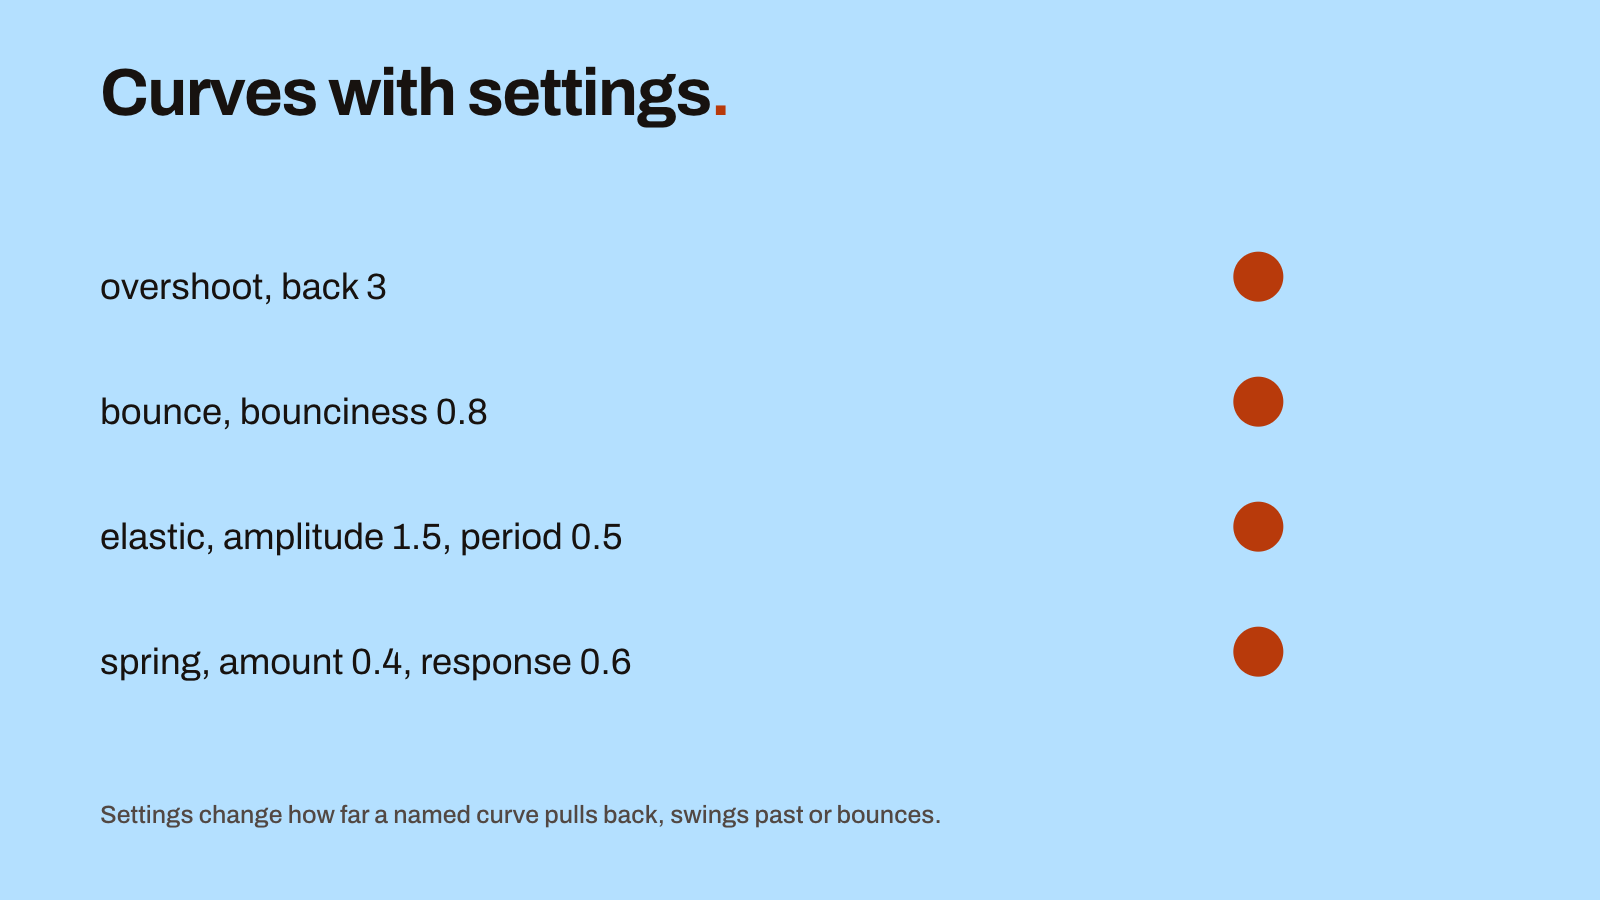
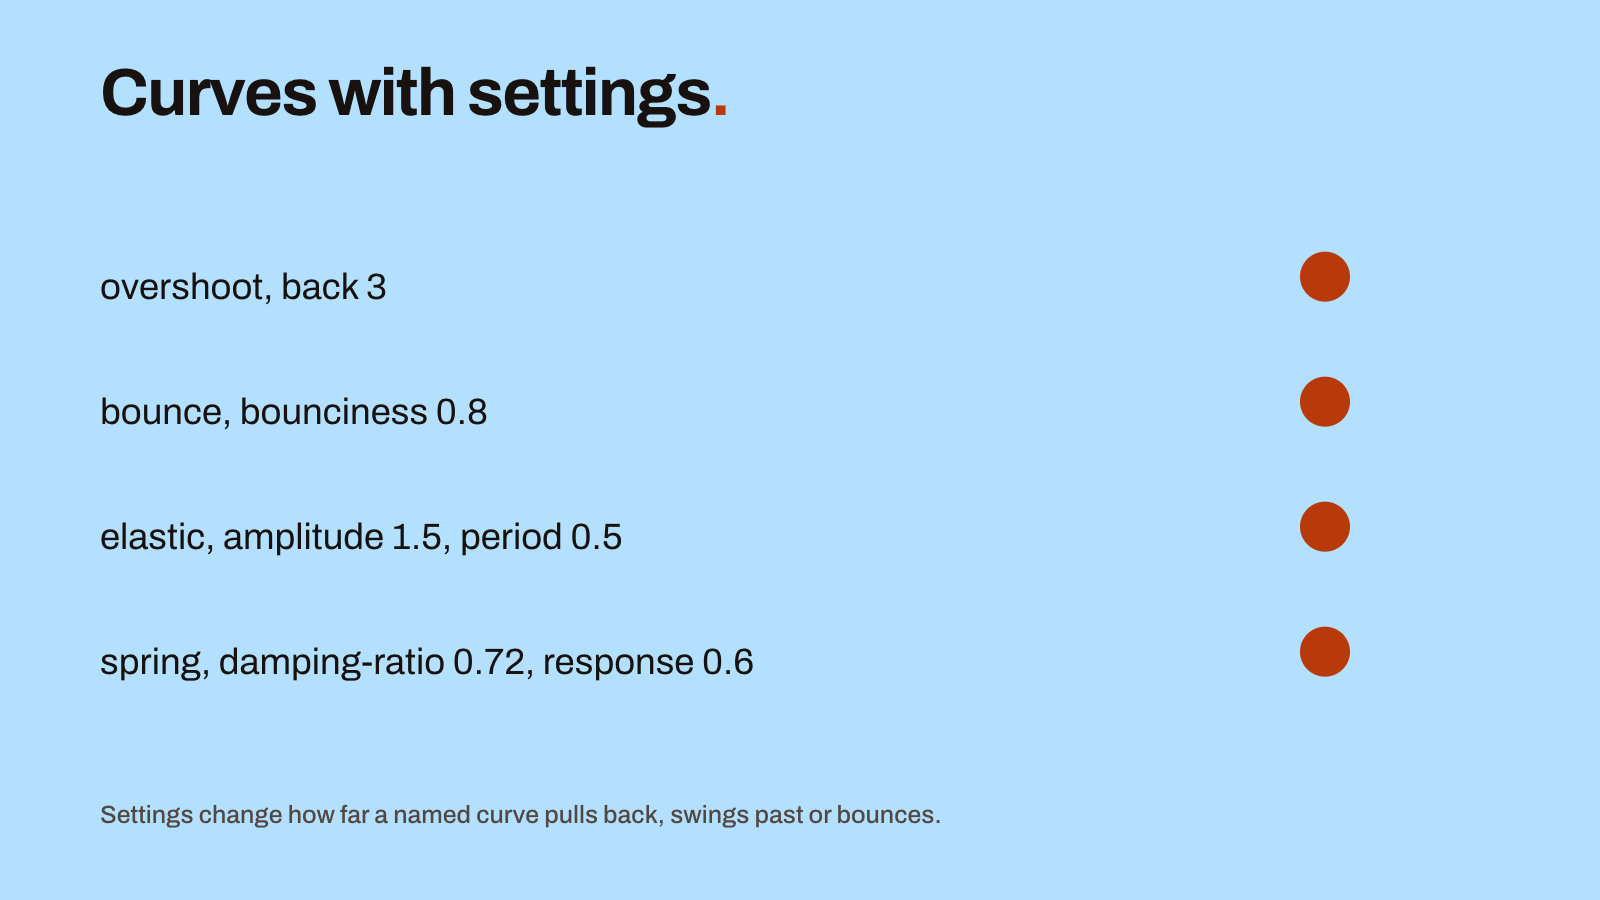
Publish from MarkdownPoint 90d66bc8

diff --git a/reference/v1.md b/reference/v1.md
@@ -1151,7 +1151,7 @@ Where: `objects[].constraints[]`
 | `target` | yes |  | The id of the model or light the camera follows. |
 | `axes` |  | x, y, z | The 3D space's axes the camera follows on, from x, y, and z. Without it, the camera follows on all three. |
 | `relative-to-target` |  |  | Whether the camera follows the target at an offset: its own offset from the slide's center at z 0, added to the target's point. With false, it is at the target's point. The default is true. |
-| `spring` |  |  | The spring the camera follows on. It has the `amount` and `response` of a keyframe's `spring` interpolation. Without it, the camera follows exactly. |
+| `spring` |  |  | The spring the camera follows on. It has the `damping-ratio` and `response` of a keyframe's `spring` interpolation. Without it, the camera follows exactly. |
 | `strength` |  | 0 to 1 | How far the camera moves to the point it follows, from 0, not at all, to 1, fully. The default is 1. It can be animated. |
 | `target-node` |  |  | The name of a node in the target's model, such as ball. The camera follows the node as the model's Action moves it. Without it, the camera follows the target's origin. |
 
@@ -1165,7 +1165,7 @@ Where: `objects[].constraints[].spring` of the camera
 
 | key | required | values | description |
 | --- | --- | --- | --- |
-| `amount` | yes | 0 to 1 | How far the camera swings past where the target stops, from 0, not at all, to 1. |
+| `damping-ratio` | yes | 0.3 to 1 | How strongly the spring is damped. At 1, it is critically damped. Less damping swings further. Below 0.3, it would keep swinging past the target. |
 | `response` | yes | more than 0 seconds | The spring's natural period. A shorter response catches up sooner. |
 
 #### motion-blur
@@ -1409,17 +1409,17 @@ Where: a keyframe's, a transition's, and a text's `interpolation`
 
 #### keyframe-interpolation
 
-An interpolation with its settings: how far `anticipate`, `overshoot`, or `anticipate-overshoot` pulls back or swings past, an elastic's swing, a bounce's bounciness, a spring's amount, or a cubic Bézier's two handles. The handles' keys are named the way CSS's cubic-bezier() names its four numbers. A named curve with no settings is written as just its name. A cubic Bézier that is the same as a named curve is written as that named curve's name too.
+An interpolation with its settings: how far `anticipate`, `overshoot`, or `anticipate-overshoot` pulls back or swings past, an elastic's swing, a bounce's bounciness, a spring's damping ratio, or a cubic Bézier's two handles. The handles' keys are named the way CSS's cubic-bezier() names its four numbers. A named curve with no settings is written as just its name. A cubic Bézier that is the same as a named curve is written as that named curve's name too.
 
 Where: a keyframe's or a text's `interpolation`, as an interpolation with its settings
 
 | key | required | values | description |
 | --- | --- | --- | --- |
 | `type` | yes | anticipate, overshoot, anticipate-overshoot, elastic, bounce, spring, cubic-bezier | Which interpolation it is: a named curve, a cubic Bézier, or a spring. |
-| `amount` | with type spring | 0 to 1 | How far a spring swings past its keyframe, from 0, not at all, to 1. |
 | `amplitude` |  | 0 or more | How large an elastic's swing is, as a multiple of the move. The default is 1. |
 | `back` |  | 0 or more | How far `anticipate`, `overshoot`, or `anticipate-overshoot` pulls back or swings past. Robert Penner's back curves use it the same way. The default is 1.70158. |
 | `bounciness` |  | 0 to 1 | A bounce's rebound speed, as a fraction of its landing speed. At 0, it lands dead. At 1, it rebounds to its height each time. The default is 0.5. |
+| `damping-ratio` | with type spring | 0.3 to 1 | How strongly a spring is damped. At 1, it doesn't swing past its keyframe. Less damping swings further. Below 0.3, it would keep swinging past its keyframe. |
 | `period` |  | more than 0 seconds | How long one swing of an elastic lasts. The default is 0.3 of the move into the keyframe, counted from where that move starts. |
 | `response` |  | more than 0 seconds | The spring's natural period. A shorter one springs faster. Without it, the spring settles by the keyframe's time. |
 | `x1` | with type cubic-bezier | 0 to 1 | The time of a cubic Bézier's first handle, as a fraction of the move. |
@@ -1427,7 +1427,7 @@ Where: a keyframe's or a text's `interpolation`, as an interpolation with its se
 | `y1` | with type cubic-bezier | any number | The value of a cubic Bézier's first handle, as a fraction of the change. It can be below 0 or above 1. The move can then go past an end. |
 | `y2` | with type cubic-bezier | any number | The value of a cubic Bézier's second handle, as a fraction of the change. It can be below 0 or above 1. The move can then go past an end. |
 
-**Springs.** A spring's `response` is its natural period, in seconds: how long one swing would take with no damping. SwiftUI's response works the same way. Its damping ratio d falls evenly from 1 at an `amount` of 0 to 0.3 at an `amount` of 1. A ratio of 1 is critical damping. With damping, each swing lasts the response divided by √(1 − d²). At an amount of 1, that is about 1.05 times the response. A Position constraint's spring works the same way.
+**Springs.** A spring's `response` is its natural period, in seconds: how long one swing would take with no damping. Its `damping-ratio` d is how strongly it is damped. SwiftUI's response and dampingRatio work the same way. A ratio of 1 is critical damping. With damping, each swing lasts the response divided by √(1 − d²). At a ratio of 0.3, that is about 1.05 times the response. A Position constraint's spring works the same way.
 
 ### <a id="comments"></a>Comments
 

diff --git a/examples/motion/slides.md b/examples/motion/slides.md
@@ -50,13 +50,13 @@ bounce, bounciness 0.8
 elastic, amplitude 1.5, period 0.5
 
 <!-- text: label-spring -->
-spring, amount 0.4, response 0.6
+spring, damping-ratio 0.72, response 0.6
 
 <!-- text: caption -->
 Settings change how far a named curve pulls back, swings past or bounces.
 
 <!-- notes -->
-A named curve with settings is a record with its name in `type`. `back` sets how far an overshoot swings past the end, and `bounciness` sets how high a bounce rebounds. `amplitude` and `period` set an elastic curve's swing, and `amount` and `response` set a spring's.
+A named curve with settings is a record with its name in `type`. `back` sets how far an overshoot swings past the end, and `bounciness` sets how high a bounce rebounds. `amplitude` and `period` set an elastic curve's swing, and `damping-ratio` and `response` set a spring's.
 
 <!-- slide: keyframes -->
 

diff --git a/mdpoint-file.md b/mdpoint-file.md
@@ -558,7 +558,7 @@ Set a keyframe's `interpolation` to a named curve. To give it settings, use a re
           "spring-arrives": {
             "time": 2,
             "value": 540,
-            "interpolation": {"type": "spring", "amount": 0.4, "response": 0.6}
+            "interpolation": {"type": "spring", "damping-ratio": 0.72, "response": 0.6}
           }
         }
       }
